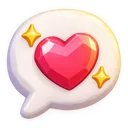
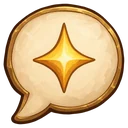
Last childish art goes frontier; buy another cache for later
Repainted in the grown-up frontier style:
- Wish bubble: a parchment speech bubble with a gold star instead of the
  pink heart. It floats over colonists all game and is the Good
  Neighbour badge. The canvas fallback and the achievement icon drop
  the heart as well.
- Daily rewards banner: a supply drop of crates, twine-tied parcels, a
  pod and a lantern at sunrise, instead of pink bow-tied gifts and
  balloons.
- Daily gift icon: a canvas-wrapped crate tied with twine.
- Lucky Spin banner: a prospector's stall with a brass prize wheel, ore
  and crystals, instead of teddy bears and candy.

Caches: "Buy another for later" also shows when you already own one of
that tier, so you can stock up (QA7).

Claude-Session: https://claude.ai/code/session_01Ga1Q1TD53YcXDmSSY9JCM9

diff --git a/nova-colony/src/render/actors/WishBubbles.ts b/nova-colony/src/render/actors/WishBubbles.ts
@@ -187,7 +187,7 @@ export class WishBubbles {
     g.textAlign = 'center';
     g.textBaseline = 'middle';
     if (this.bubbleReady && this.bubble) {
-      // the painted bubble (it carries its own heart) with the wish's icon as a little badge
+      // the painted bubble (it carries its own lantern) with the wish's icon as a little badge
       g.drawImage(this.bubble, 0, 0, S, S);
       const bx = S * 0.76;
       const by = S * 0.26;
@@ -233,9 +233,9 @@ export class WishBubbles {
     g.stroke();
     g.font = `${Math.round(S * 0.42)}px ${EMOJI_FONT}`;
     g.fillText(icon, S * 0.5, y + h * 0.53);
-    // a tiny heart in the corner: it is a wish
+    // a small brass star in the corner: it is a wish
     g.font = `${Math.round(S * 0.17)}px ${EMOJI_FONT}`;
-    g.fillText('💗', x + w - S * 0.07, y + S * 0.08);
+    g.fillText('✨', x + w - S * 0.07, y + S * 0.08);
   }
 
   /** Forget cached textures (the painted bubble arrived): slots redraw on their next update. */

diff --git a/nova-colony/src/ui/shop/ChestsTab.ts b/nova-colony/src/ui/shop/ChestsTab.ts
@@ -126,8 +126,10 @@ function chestCard(ctx: UiCtx, host: ChestsTabHost, def: ChestDef): HTMLElement 
         },
       }),
     );
-  } else if (afford && chests.forSale(def.id)) {
-    const keep = h('button', { class: 'cc-keep', type: 'button', text: 'Buy now, open later' });
+  }
+  // stock one for later (another one too, when some are already waiting)
+  if (afford && chests.forSale(def.id)) {
+    const keep = h('button', { class: 'cc-keep', type: 'button', text: owned > 0 ? 'Buy another for later' : 'Buy now, open later' });
     keep.addEventListener('click', () => {
       if (chests.buy(def.id, false)) ctx.toast(`${def.name} stored in your Inventory`, 'success', itemArt(def.id) ?? def.icon);
       host.rerender();

diff --git a/nova-colony/src/data/achievements.ts b/nova-colony/src/data/achievements.ts
@@ -182,7 +182,7 @@ const LINES: AchievementDef[] = [
   }),
 
   ...line({
-    id: 'good_neighbour', category: 'community', name: 'Good Neighbour', icon: '💗', art: 'hud:wish', source: counter('wish'),
+    id: 'good_neighbour', category: 'community', name: 'Good Neighbour', icon: '🤝', art: 'hud:wish', source: counter('wish'),
     desc: (n, raw) => (raw === 1 ? 'Grant a colonist’s wish' : `Grant ${n} colonists’ wishes`),
     steps: [
       [3, { xp: 40, resources: { food: 80, water: 60 } }],

diff --git a/nova-colony/src/ui/panels/SeasonPanel.ts b/nova-colony/src/ui/panels/SeasonPanel.ts
@@ -188,7 +188,7 @@ export class SeasonPanel extends Panel {
     return h(
       'div',
       { class: 'card sp-bonus', data: { bonusCard: '1' } },
-      artOrEmoji(chestArt(chestId), chest?.icon ?? '🎁', 'sp-bchest', chest?.name ?? 'Bonus chest'),
+      artOrEmoji(chestArt(chestId), chest?.icon ?? '🎁', 'sp-bchest', chest?.name ?? 'Bonus cache'),
       h(
         'div',
         { class: 'grow stack-v tight' },
